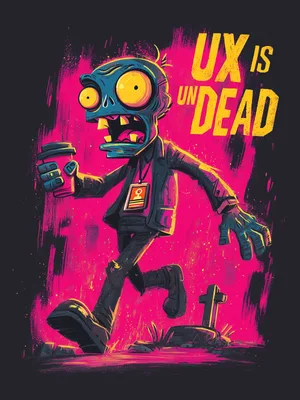
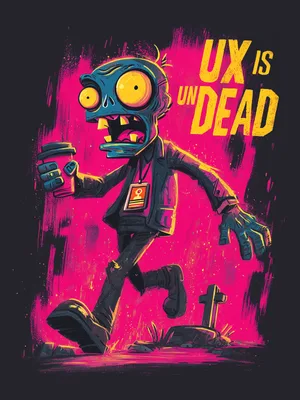
Update blog cover photo and bust cache for deploy

Changed region(s): [[0.63, 0.06, 0.93, 0.21]]

diff --git a/assets/css/main.css b/assets/css/main.css
@@ -18,28 +18,28 @@
  */
 
 /* Foundation Layer */
-@import '_variables.css?v=1775149899';
-@import '_base.css?v=1775149899';
+@import '_variables.css?v=1775150928';
+@import '_base.css?v=1775150928';
 
 /* Navigation & UI Shell */
-@import '_navigation.css?v=1775149899';
-@import '_hero.css?v=1775149899';
+@import '_navigation.css?v=1775150928';
+@import '_hero.css?v=1775150928';
 
 /* Interactive Features */
-@import '_particles.css?v=1775149899';
+@import '_particles.css?v=1775150928';
 
 /* Component Library */
-@import '_components.css?v=1775149899';
-@import '_carousels.css?v=1775149899';
+@import '_components.css?v=1775150928';
+@import '_carousels.css?v=1775150928';
 
 /* Content Sections */
-@import '_sections.css?v=1775149899';
+@import '_sections.css?v=1775150928';
 
 /* Page-Specific Styles */
-@import '_project-pages.css?v=1775149899';
+@import '_project-pages.css?v=1775150928';
 
 /* Specialized Features */
-@import '_charts.css?v=1775149899';
+@import '_charts.css?v=1775150928';
 
 /* Utilities & Overrides (must be last) */
-@import '_utilities.css?v=1775149899';
+@import '_utilities.css?v=1775150928';

diff --git a/index.html b/index.html
@@ -42,7 +42,7 @@
     <link rel="preconnect" href="https://fonts.googleapis.com">
     <link rel="preconnect" href="https://fonts.gstatic.com" crossorigin>
     <link href="https://fonts.googleapis.com/css2?family=IBM+Plex+Sans:wght@300;400;500;600;700&display=swap" rel="stylesheet">
-    <link rel="stylesheet" href="assets/css/main.css?v=1775149899">
+    <link rel="stylesheet" href="assets/css/main.css?v=1775150928">
     <style>
         /* Critical inline styles to prevent navigation flash on first load
            These must stay inline to override external CSS before it loads */

diff --git a/lab.html b/lab.html
@@ -27,7 +27,7 @@
     <link rel="preconnect" href="https://fonts.googleapis.com">
     <link rel="preconnect" href="https://fonts.gstatic.com" crossorigin>
     <link href="https://fonts.googleapis.com/css2?family=IBM+Plex+Sans:wght@300;400;500;600;700&display=swap" rel="stylesheet">
-    <link rel="stylesheet" href="assets/css/main.css?v=1775149899">
+    <link rel="stylesheet" href="assets/css/main.css?v=1775150928">
     <style>
         /* Critical inline styles to prevent navigation flash on first load
            These must stay inline to override external CSS before it loads */

diff --git a/work/research-strategy.html b/work/research-strategy.html
@@ -27,7 +27,7 @@
     <link rel="preconnect" href="https://fonts.gstatic.com" crossorigin>
     <link href="https://fonts.googleapis.com/css2?family=IBM+Plex+Sans:wght@300;400;500;600;700&display=swap" rel="stylesheet">
     <link rel="canonical" href="https://jerimybrown.com/work/research-strategy.html">
-    <link rel="stylesheet" href="../assets/css/main.css?v=1775149899">
+    <link rel="stylesheet" href="../assets/css/main.css?v=1775150928">
     <style>
         /* Prevent navigation flash on first load */
         .nav {

diff --git a/work/design-system.html b/work/design-system.html
@@ -27,7 +27,7 @@
     <link rel="preconnect" href="https://fonts.gstatic.com" crossorigin>
     <link href="https://fonts.googleapis.com/css2?family=IBM+Plex+Sans:wght@300;400;500;600;700&display=swap" rel="stylesheet">
     <link rel="canonical" href="https://jerimybrown.com/work/design-system.html">
-    <link rel="stylesheet" href="../assets/css/main.css?v=1775149899">
+    <link rel="stylesheet" href="../assets/css/main.css?v=1775150928">
     <style>
         /* Prevent navigation flash on first load */
         .nav {

diff --git a/work/product-suite.html b/work/product-suite.html
@@ -27,7 +27,7 @@
     <link rel="preconnect" href="https://fonts.gstatic.com" crossorigin>
     <link href="https://fonts.googleapis.com/css2?family=IBM+Plex+Sans:wght@300;400;500;600;700&display=swap" rel="stylesheet">
     <link rel="canonical" href="https://jerimybrown.com/work/product-suite.html">
-    <link rel="stylesheet" href="../assets/css/main.css?v=1775149899">
+    <link rel="stylesheet" href="../assets/css/main.css?v=1775150928">
     <style>
         /* Prevent navigation flash on first load */
         .nav {

diff --git a/work/ai-strategy.html b/work/ai-strategy.html
@@ -27,7 +27,7 @@
     <link rel="preconnect" href="https://fonts.gstatic.com" crossorigin>
     <link href="https://fonts.googleapis.com/css2?family=IBM+Plex+Sans:wght@300;400;500;600;700&display=swap" rel="stylesheet">
     <link rel="canonical" href="https://jerimybrown.com/work/ai-strategy.html">
-    <link rel="stylesheet" href="../assets/css/main.css?v=1775149899">
+    <link rel="stylesheet" href="../assets/css/main.css?v=1775150928">
     <style>
         /* Prevent navigation flash on first load */
         .nav {

diff --git a/resume.html b/resume.html
@@ -27,7 +27,7 @@
     <link rel="preconnect" href="https://fonts.googleapis.com">
     <link rel="preconnect" href="https://fonts.gstatic.com" crossorigin>
     <link href="https://fonts.googleapis.com/css2?family=IBM+Plex+Sans:wght@300;400;500;600;700&display=swap" rel="stylesheet">
-    <link rel="stylesheet" href="assets/css/main.css?v=1775149899">
+    <link rel="stylesheet" href="assets/css/main.css?v=1775150928">
     <style>
         /* Resume-specific CSS variables */
         :root {

diff --git a/blog/back-from-the-dead.html b/blog/back-from-the-dead.html
@@ -56,7 +56,7 @@
     <link href="https://fonts.googleapis.com/css2?family=IBM+Plex+Sans:wght@300;400;500;600;700&display=swap" rel="stylesheet">
 
     <!-- Stylesheet -->
-    <link rel="stylesheet" href="../assets/css/main.css?v=1775149899">
+    <link rel="stylesheet" href="../assets/css/main.css?v=1775150928">
 
     <style>
         /* Critical inline styles to prevent navigation flash */

diff --git a/blog/the-logic-of-beautiful-things.html b/blog/the-logic-of-beautiful-things.html
@@ -56,7 +56,7 @@
     <link href="https://fonts.googleapis.com/css2?family=IBM+Plex+Sans:wght@300;400;500;600;700&display=swap" rel="stylesheet">
 
     <!-- Stylesheet -->
-    <link rel="stylesheet" href="../assets/css/main.css?v=1775149899">
+    <link rel="stylesheet" href="../assets/css/main.css?v=1775150928">
 
     <style>
         /* Critical inline styles to prevent navigation flash */

diff --git a/blog/why-ai-got-a-ui.html b/blog/why-ai-got-a-ui.html
@@ -56,7 +56,7 @@
     <link href="https://fonts.googleapis.com/css2?family=IBM+Plex+Sans:wght@300;400;500;600;700&display=swap" rel="stylesheet">
 
     <!-- Stylesheet -->
-    <link rel="stylesheet" href="../assets/css/main.css?v=1775149899">
+    <link rel="stylesheet" href="../assets/css/main.css?v=1775150928">
 
     <style>
         /* Critical inline styles to prevent navigation flash */
